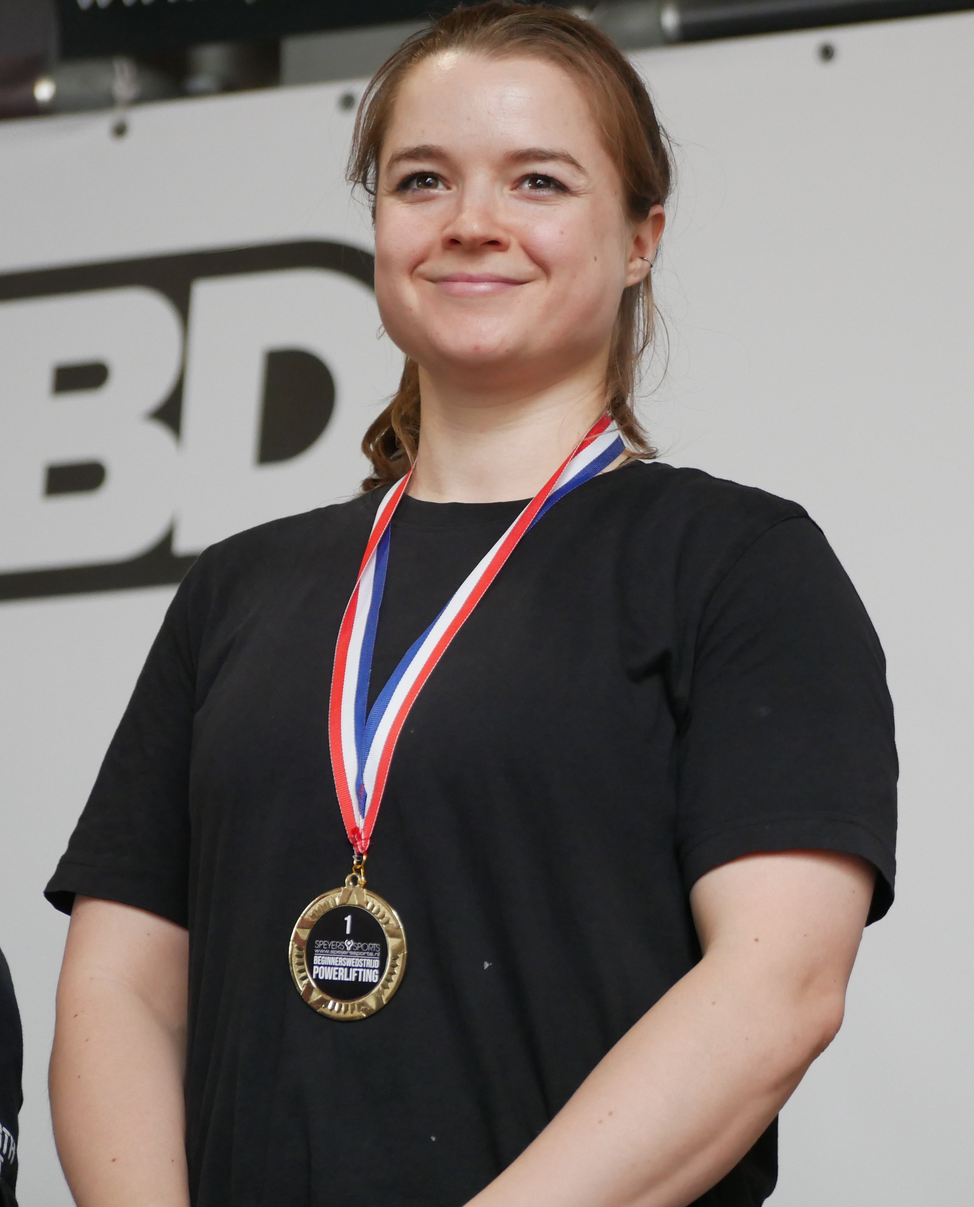
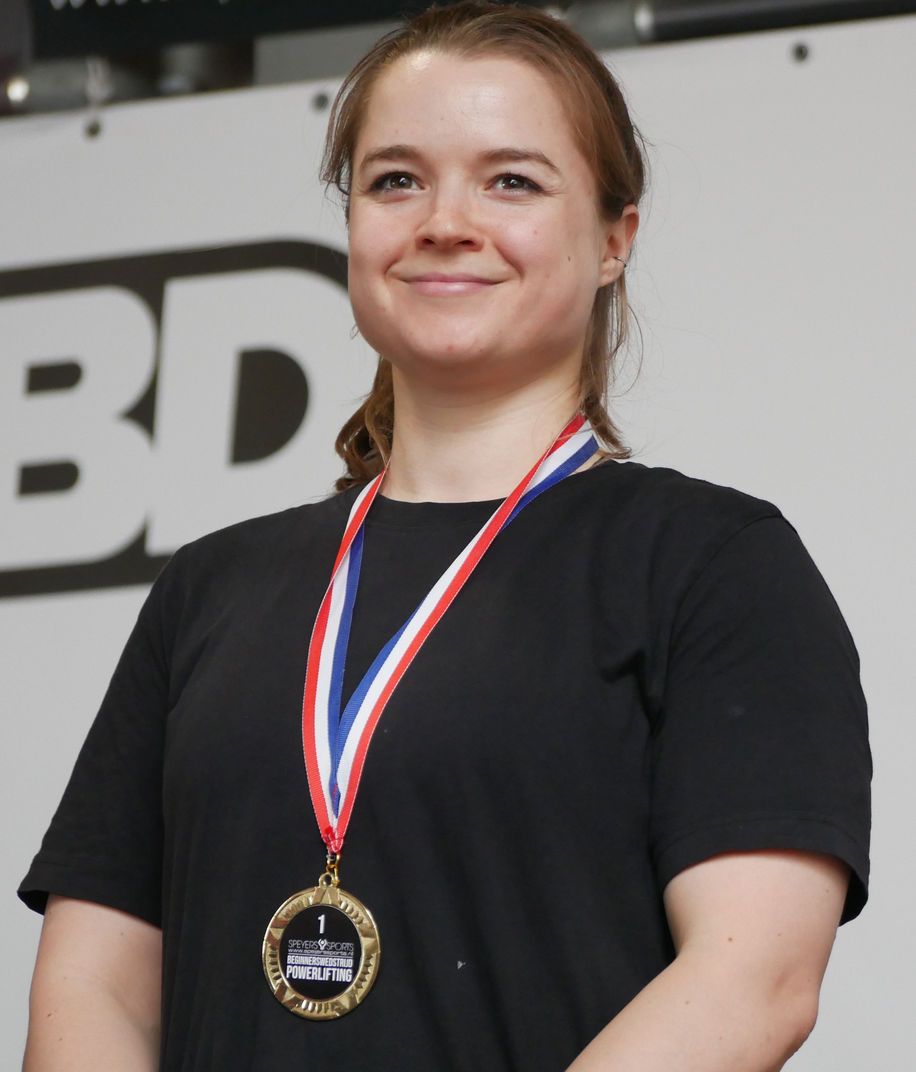
update files

diff --git a/_pages/personal.md b/_pages/personal.md
@@ -11,14 +11,14 @@ robots: noindex
 Powerlifting
 ------
 
+<p>
 Outside of work, you can find me in the gym powerlifting. Powerlifting is a strength sport focused on three main lifts: the squat, bench press, and deadlift. I really enjoy balancing the mental focus of my work with the physical intensity of powerlifting.
 
 While I’ve been into fitness for years, a powerlifting course during my research stay at Boston College inspired me to take my training to the next level. I became a certified fitness instructor in October 2022, and in September 2024, I competed in my first powerlifting meet (Speijers Sports Entry-Level Competition), where a 125kg squat, 75kg bench, and 150kg deadlift earned me the gold medal in the 63kg weight class.
 
 Powerlifting has taught me perseverance, consistency, and patience. I love the process of continual improvement, both in the gym and in my research.
 
-<p align="center">
-  <img src="/files/me.JPG" alt="Gold Medal" style="max-width: 60%; height: auto;">
+  <img src="/files/me.JPG" alt="Me with Gold Medal" style="float: right; margin-left: 20px; max-width: 30%; height: auto;">
 </p>
 
 ## My Lifts in Action
